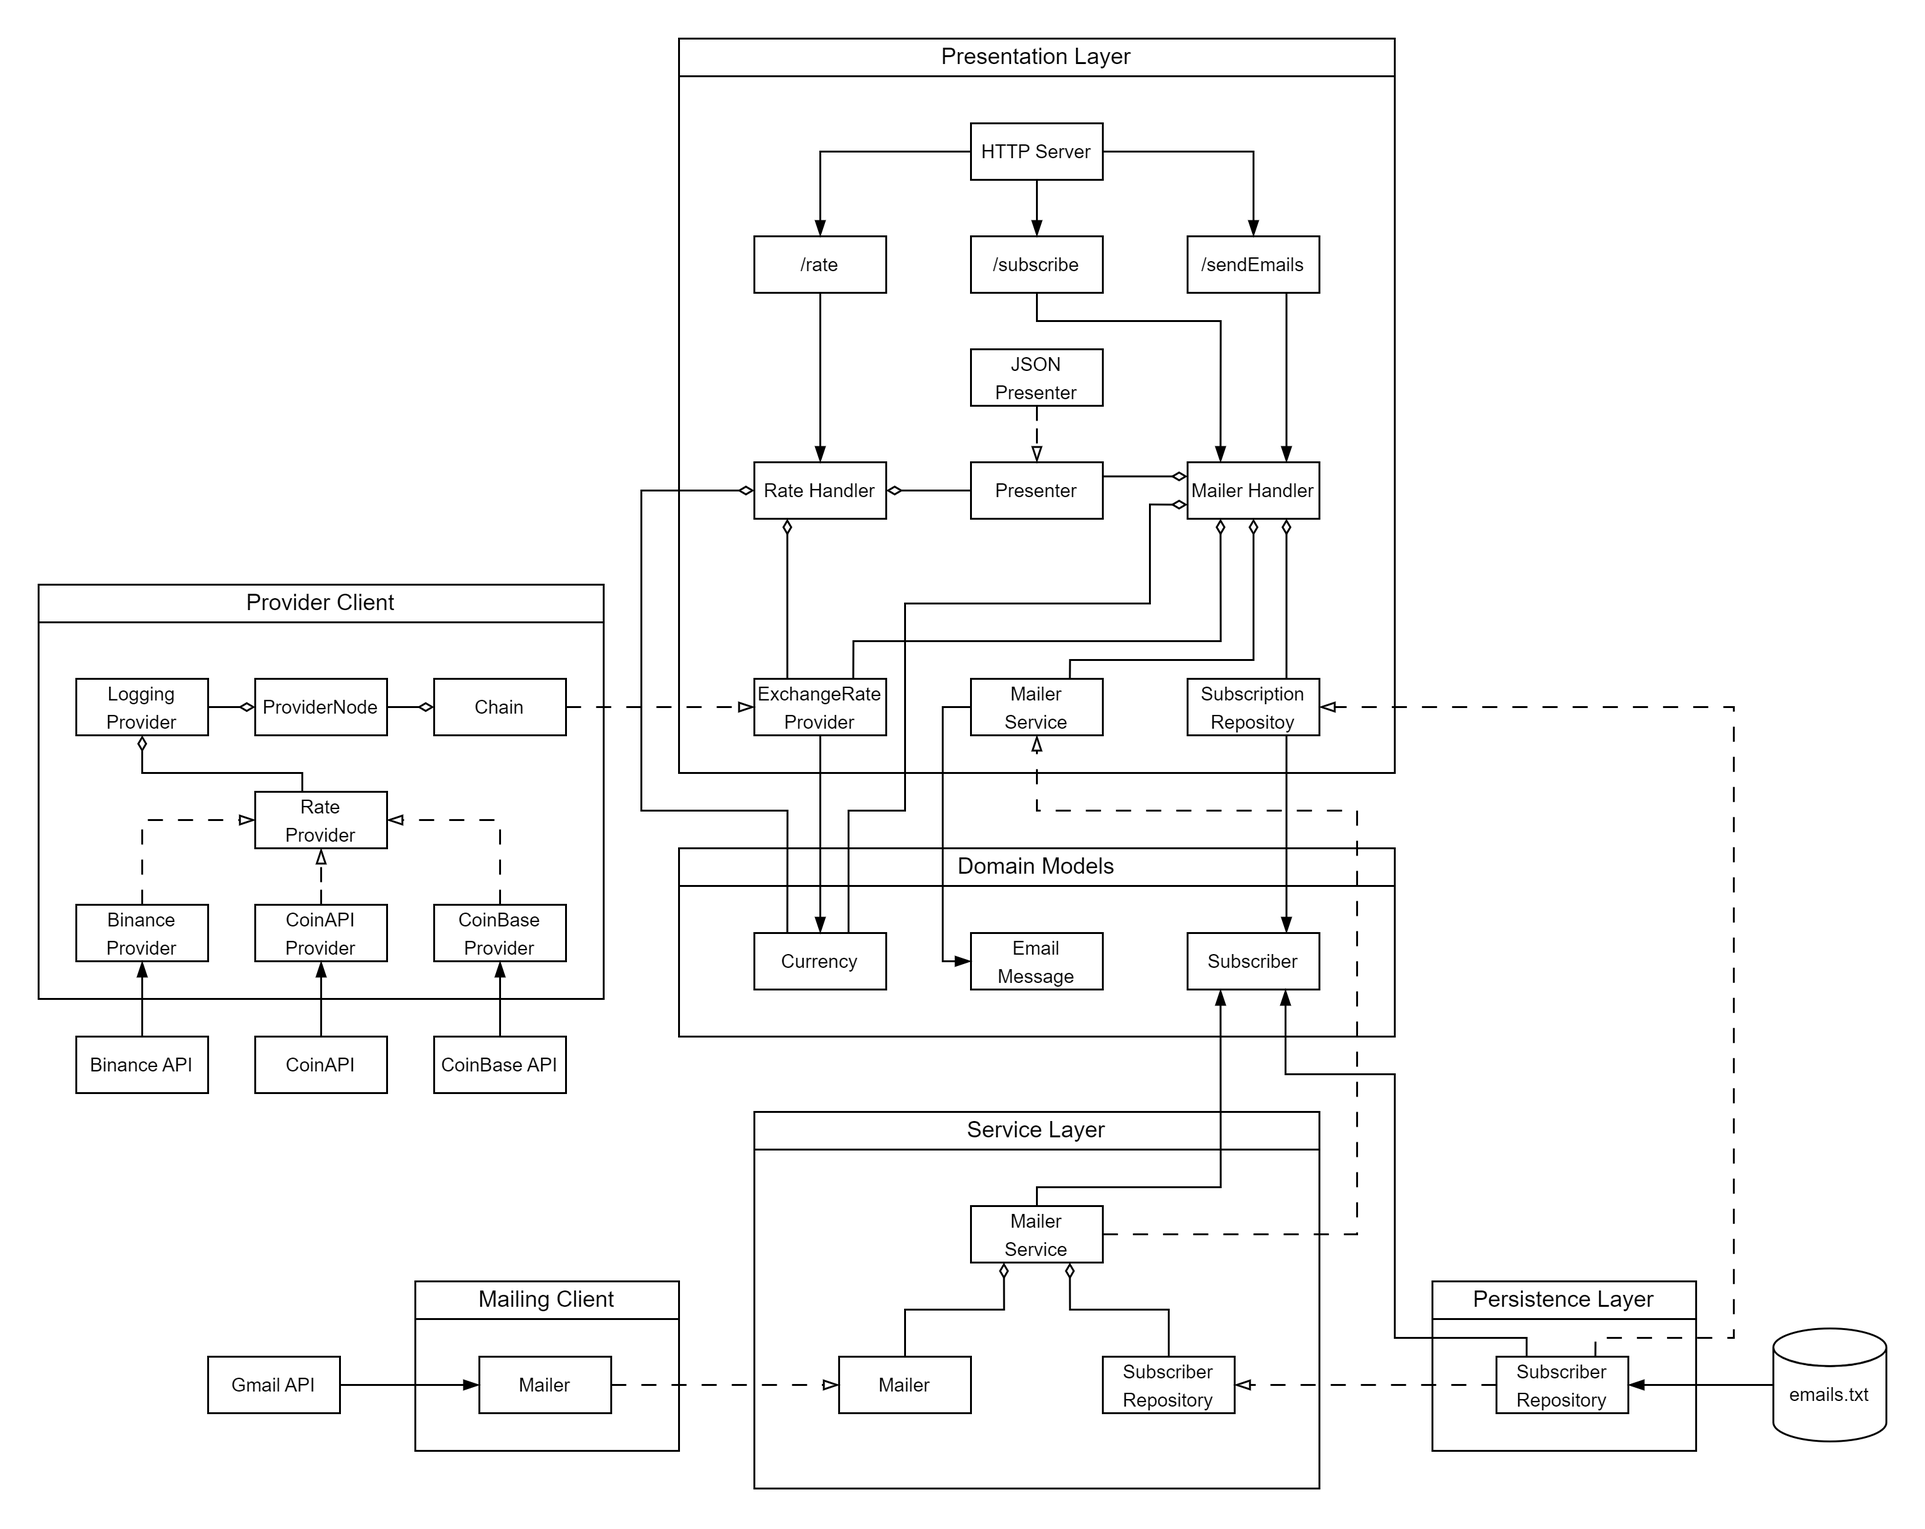
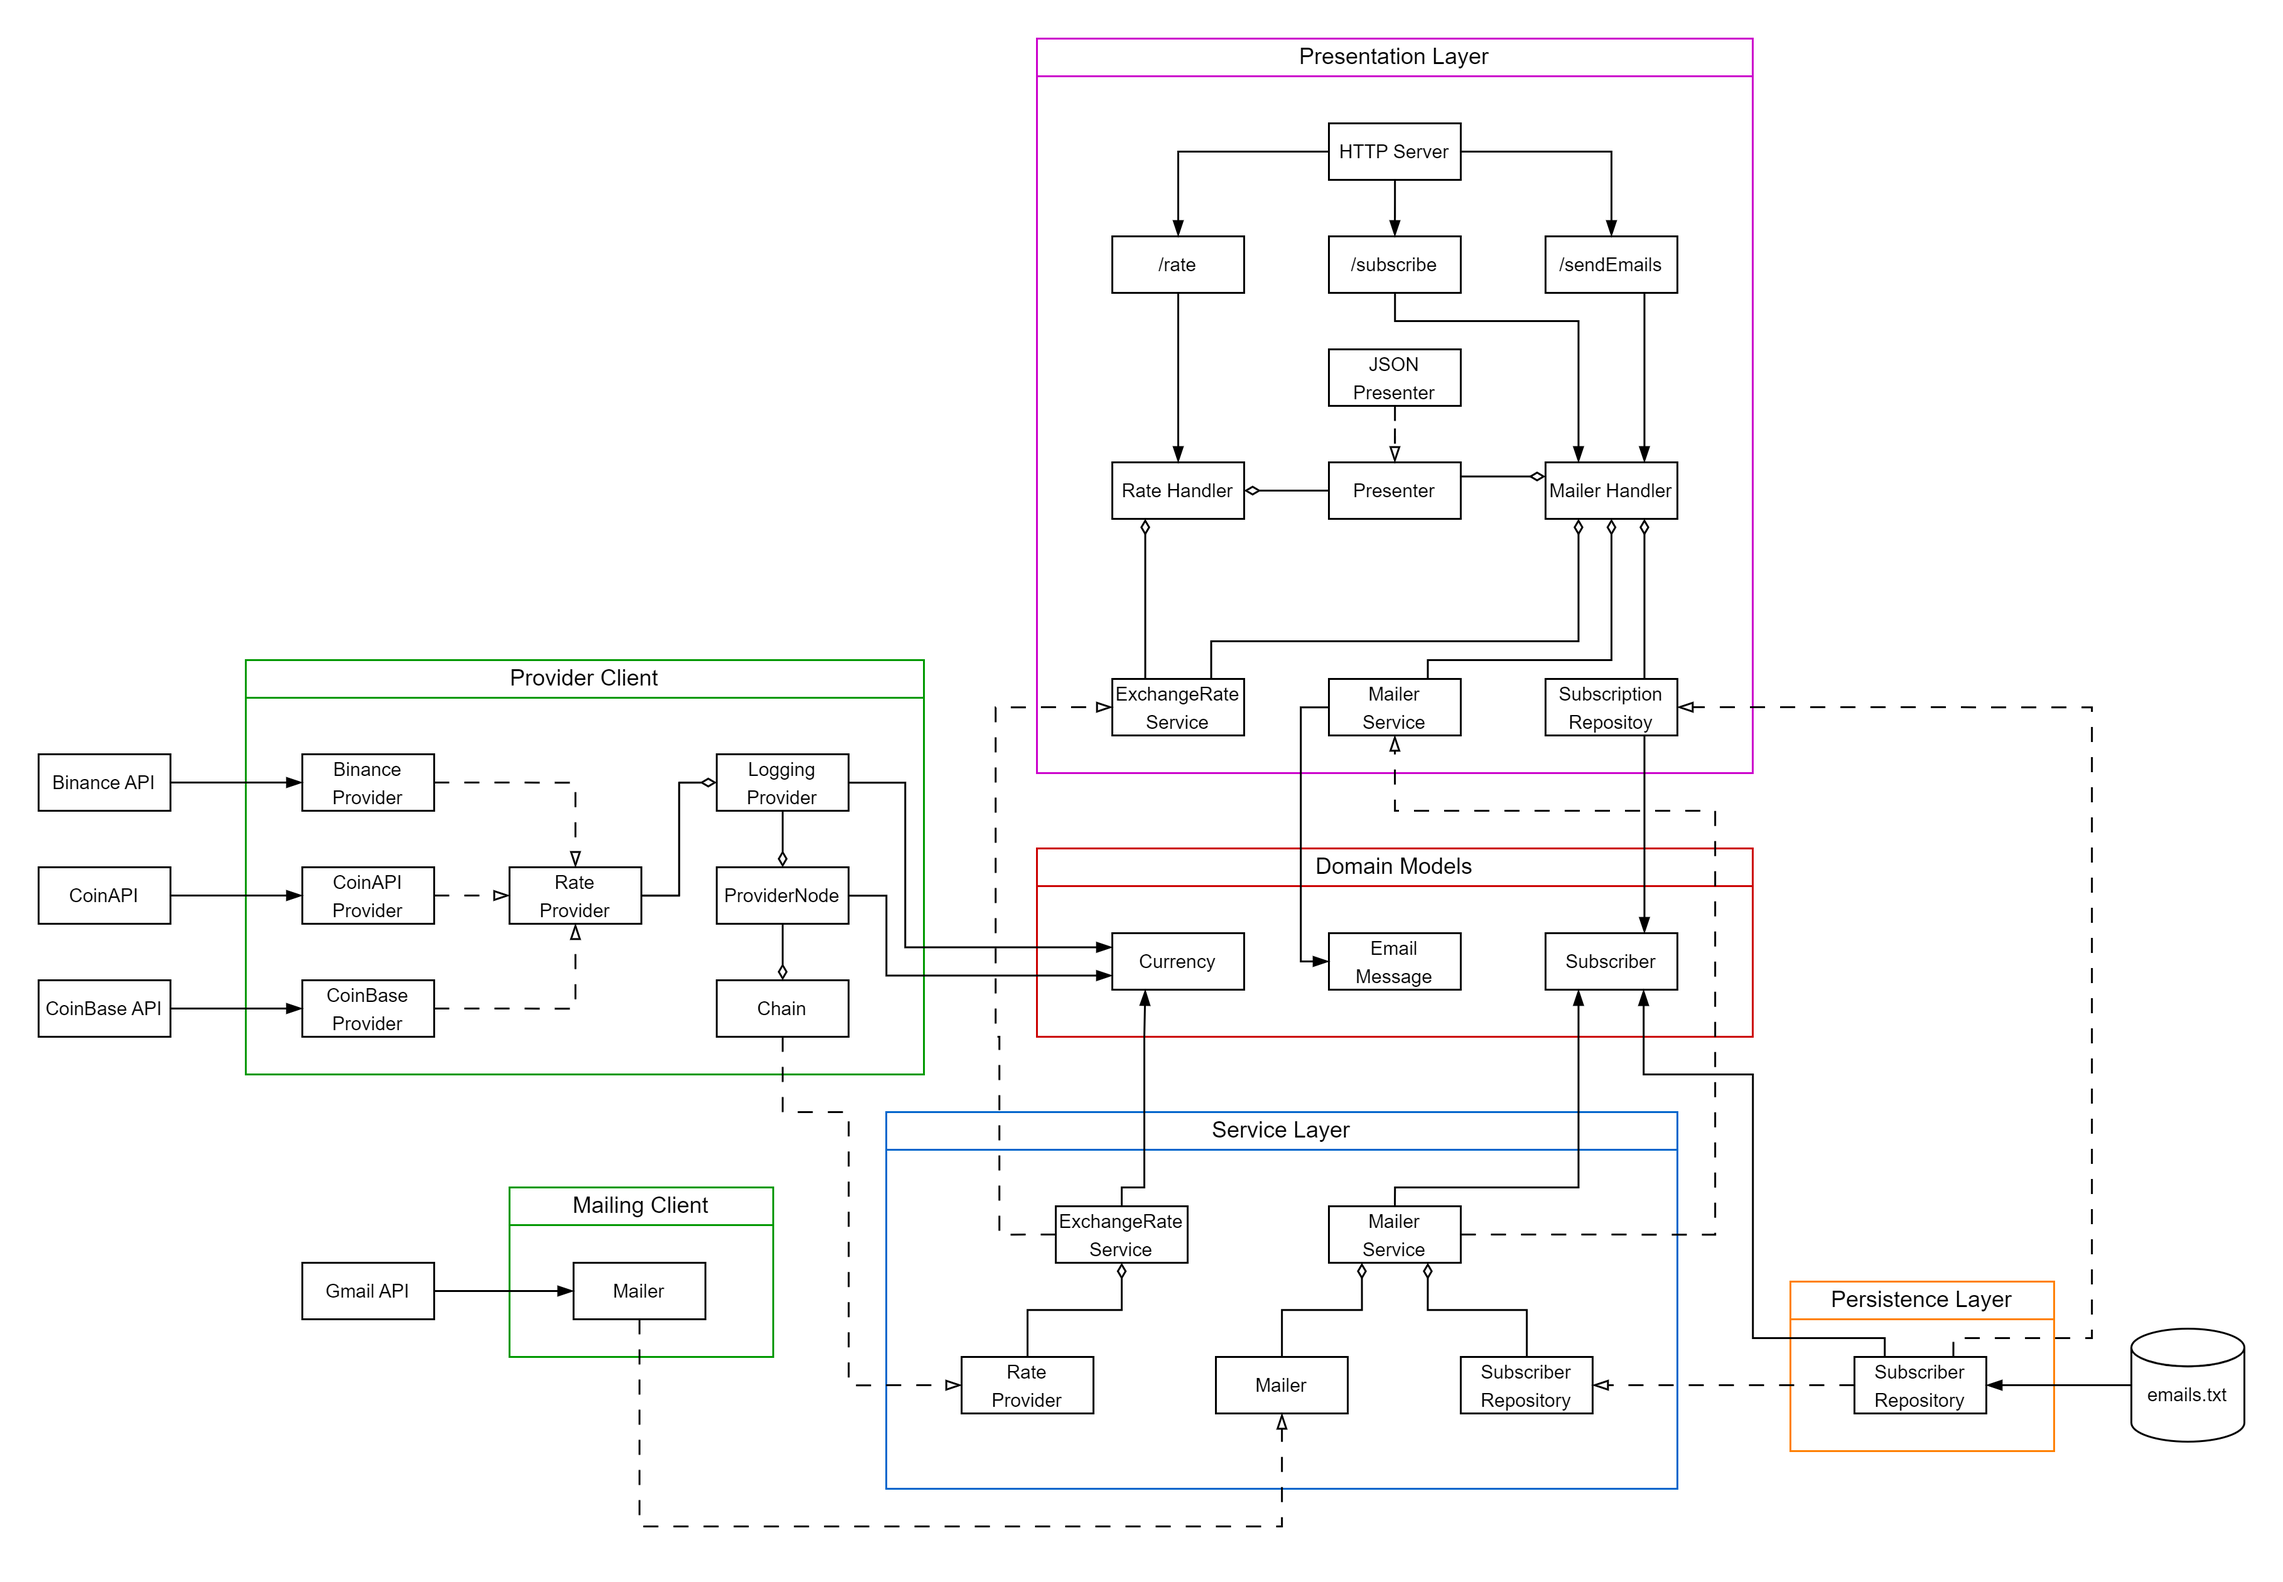
add: exchange rate service

diff --git a/internal/handler/mailer_handler.go b/internal/handler/mailer_handler.go
@@ -20,37 +20,31 @@ type MailerService interface {
 }
 
 type MailerHandler struct {
-	mailerService             MailerService
-	exchangeRateService       ExchangeRateProvider
-	subscriptionRepository    SubscriptionRepository
-	validator                 *validator.Validate
-	presenter                 ResponsePresenter
-	exchangeRateBaseCurrency  model.Currency
-	exchangeRateQuoteCurrency model.Currency
+	mailerService          MailerService
+	exchangeRateService    ExchangeRateService
+	subscriptionRepository SubscriptionRepository
+	validator              *validator.Validate
+	presenter              ResponsePresenter
 }
 
 func NewMailerHandler(
 	mailerService MailerService,
-	exchangeRateService ExchangeRateProvider,
+	exchangeRateService ExchangeRateService,
 	subscriptionRepository SubscriptionRepository,
 	validator *validator.Validate,
 	presenter ResponsePresenter,
-	baseCurrency model.Currency,
-	quoteCurrency model.Currency,
 ) *MailerHandler {
 	return &MailerHandler{
-		mailerService:             mailerService,
-		exchangeRateService:       exchangeRateService,
-		subscriptionRepository:    subscriptionRepository,
-		validator:                 validator,
-		presenter:                 presenter,
-		exchangeRateBaseCurrency:  baseCurrency,
-		exchangeRateQuoteCurrency: quoteCurrency,
+		mailerService:          mailerService,
+		exchangeRateService:    exchangeRateService,
+		subscriptionRepository: subscriptionRepository,
+		validator:              validator,
+		presenter:              presenter,
 	}
 }
 
 func (h *MailerHandler) SendExchangeRate(c *fiber.Ctx) error {
-	value, err := h.exchangeRateService.GetExchangeRateValue(h.exchangeRateBaseCurrency, h.exchangeRateQuoteCurrency)
+	value, err := h.exchangeRateService.GetRate()
 	if err != nil {
 		return h.presenter.PresentError(c, http.StatusInternalServerError, err)
 	}

diff --git a/internal/handler/rate_handler.go b/internal/handler/rate_handler.go
@@ -1,7 +1,6 @@
 package handler
 
 import (
-	"bitcoin-exchange-rate/internal/model"
 	"errors"
 	"github.com/gofiber/fiber/v2"
 	"net/http"
@@ -9,33 +8,27 @@ import (
 
 var ErrProviderGetRate = errors.New("there is an error, while parsing rate")
 
-type ExchangeRateProvider interface {
-	GetExchangeRateValue(baseCurrency model.Currency, quoteCurrency model.Currency) (float64, error)
+type ExchangeRateService interface {
+	GetRate() (float64, error)
 }
 
 type RateHandler struct {
-	exchangeRateProvider      ExchangeRateProvider
-	presenter                 ResponsePresenter
-	exchangeRateBaseCurrency  model.Currency
-	exchangeRateQuoteCurrency model.Currency
+	exchangeRateService ExchangeRateService
+	presenter           ResponsePresenter
 }
 
 func NewRateHandler(
-	exchangeRateProvider ExchangeRateProvider,
+	exchangeRateService ExchangeRateService,
 	presenter ResponsePresenter,
-	baseCurrency model.Currency,
-	quoteCurrency model.Currency,
 ) *RateHandler {
 	return &RateHandler{
-		exchangeRateProvider:      exchangeRateProvider,
-		presenter:                 presenter,
-		exchangeRateBaseCurrency:  baseCurrency,
-		exchangeRateQuoteCurrency: quoteCurrency,
+		exchangeRateService: exchangeRateService,
+		presenter:           presenter,
 	}
 }
 
 func (h *RateHandler) GetExchangeRate(c *fiber.Ctx) error {
-	rate, err := h.exchangeRateProvider.GetExchangeRateValue(h.exchangeRateBaseCurrency, h.exchangeRateQuoteCurrency)
+	rate, err := h.exchangeRateService.GetRate()
 	if err != nil || rate == 0 {
 		return h.presenter.PresentError(c, http.StatusBadRequest, ErrProviderGetRate)
 	}

diff --git a/internal/service/exchange_rate_service.go b/internal/service/exchange_rate_service.go
@@ -1,0 +1,29 @@
+package service
+
+import "bitcoin-exchange-rate/internal/model"
+
+type RateProvider interface {
+	GetExchangeRateValue(baseCurrency model.Currency, quoteCurrency model.Currency) (float64, error)
+}
+
+type ExchangeRateService struct {
+	rateProvider  RateProvider
+	baseCurrency  model.Currency
+	quoteCurrency model.Currency
+}
+
+func NewExchangeRateService(rateProvider RateProvider, baseCurrency, quoteCurrency model.Currency) *ExchangeRateService {
+	return &ExchangeRateService{
+		rateProvider:  rateProvider,
+		baseCurrency:  baseCurrency,
+		quoteCurrency: quoteCurrency,
+	}
+}
+
+func (s *ExchangeRateService) GetRate() (float64, error) {
+	rate, err := s.rateProvider.GetExchangeRateValue(s.baseCurrency, s.quoteCurrency)
+	if err != nil {
+		return 0, err
+	}
+	return rate, nil
+}

diff --git a/internal/webserver/server.go b/internal/webserver/server.go
@@ -80,18 +80,18 @@ func (a *App) Run(config Config) {
 
 	subscriberRepository := repository.NewSubscriberFileRepository(config.SubscriberRepositoryEmailsFilePath)
 
+	exchangeRateService := service.NewExchangeRateService(rateProvider, baseCurrency, quoteCurrency)
+
 	mailerService := service.NewMailerService(subscriberRepository, cryptoMailer)
 
-	rateHandler := handler.NewRateHandler(rateProvider, presenter, baseCurrency, quoteCurrency)
+	rateHandler := handler.NewRateHandler(exchangeRateService, presenter)
 
 	mailerHandler := handler.NewMailerHandler(
 		mailerService,
-		rateProvider,
+		exchangeRateService,
 		subscriberRepository,
 		validator.New(),
 		presenter,
-		baseCurrency,
-		quoteCurrency,
 	)
 
 	api := a.app.Group("/api")
